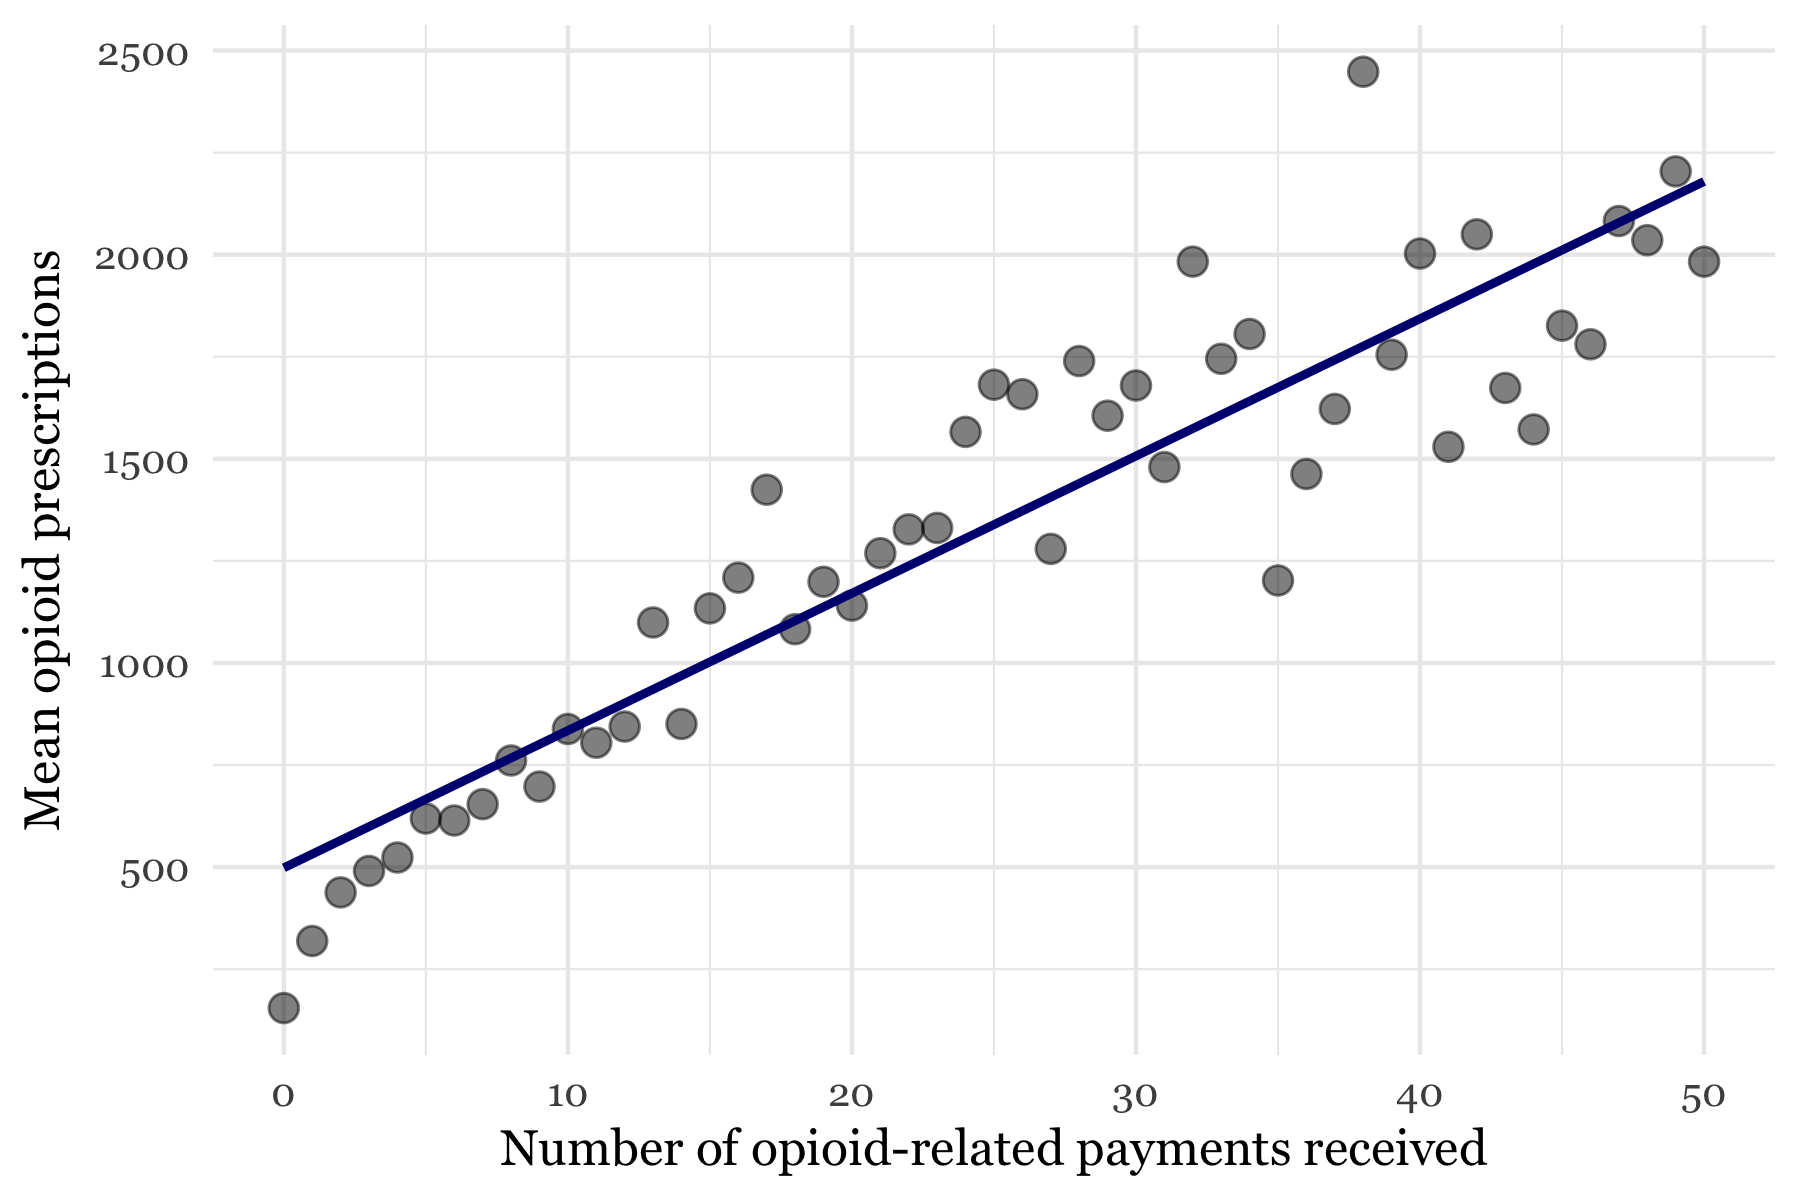
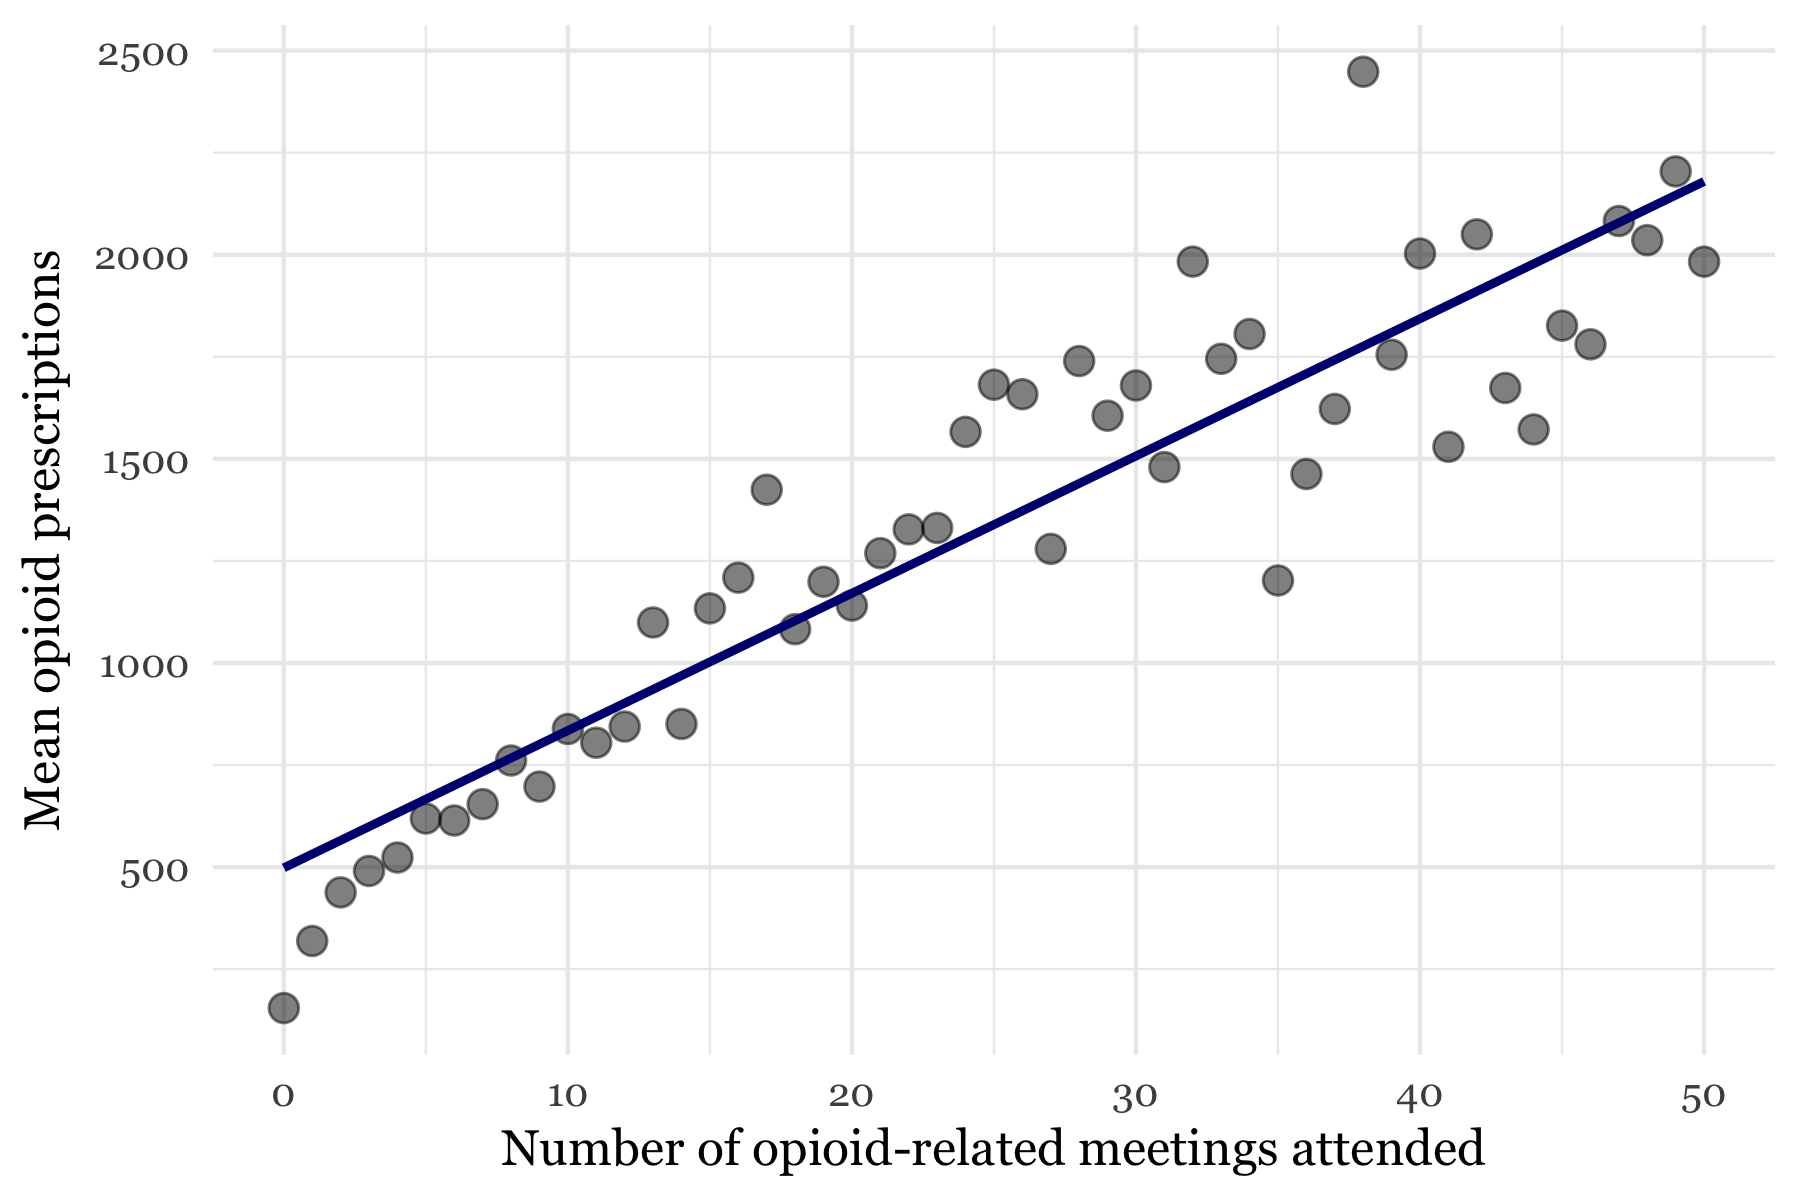
update drafts again

Changed region(s): [[0.4044, 0.925, 0.84, 0.9867], [0.28, 0.9558, 0.3733, 0.9867]]

diff --git a/README.md b/README.md
@@ -1,8 +1,8 @@
-# Part 1: Primary Care Doctors Prescribe the Most Opioids
+# Primary Care Doctors Prescribe the Most Opioids
 
 In the early 2000s, when opioid manufacturers were seeking ways to spread new drugs to more patients, a [new plan](http://ajph.aphapublications.org/doi/abs/10.2105/AJPH.2007.131714) was formed: target the primary care docs.
 
-These doctors were not trained to treat chronic pain.  Nor were they routinely performing painful procedures.  They helped give birth, treated children sick with the flu, performed annual physical exams, and cared for the elderly.
+These doctors were not trained to treat chronic pain.  Nor were they routinely performing painful procedures.  They delivered babies, treated children sick with the flu, performed annual physical exams, and cared for the elderly.
 
 In other words, they saw the most patients.  And that's precisely what made them attractive to opioid manufacturers.
 
@@ -10,29 +10,26 @@ Over 15 years later, the marketing plan seems to have paid off.  In 2015, only p
 
 ![Image](plots/specialty_top10pre_total.png)
 
-This could be due to the sheer number of primary care doctors, or the fact that primary care doctors have more patients than other specialties. But as it turns out, they prescribe more than others even after controlling for these potential confounds.
+This could be due to the sheer number of primary care doctors, or the fact that primary care doctors have more patients than other specialties. But they prescribe more than others even after controlling for these confounds.
 
-Consider Emmanuel Saez, a dentist in Ohio. In 2015, he made XX opioid prescriptions to 32 patients, amounting to a prescription-to-patient ratio of 2--average among dentists.
+Consider Michael Lochtefeld, a dentist in South Carolina. In 2015, he made 49 opioid prescriptions to 42 patients, amounting to a prescription-to-patient ratio of 1.2--average among dentists.
 
-Now consider Jonathan Gruber, a family physician in Texas. He made 100 opioid prescriptions to 50 patients in 2015, amounting to a prescription-to-patient ratio of 3--average among family physicians.
+Now consider Deepthi Singham, a family physician in Ohio. He made 304 opioid prescriptions to 84 patients in 2015, amounting to a prescription-to-patient ratio of 4.4--average among family physicians.
 
-Drs. Gruber and Saez form two ends of a spectrum. Dentists, who routinely prescribe opioids like X to their patients following surgery, are on one end. Family physicians, who XX, are on the other.
+Drs. Lochtefeld and Singham form two ends of a spectrum. The low-prescription end includes specialties like dentistry, orthopedic surgery, and emergency medicine, all of which are characterized by narrow ranges of prescribing behavior.
 
+The high-prescription end of the spectrum includes specialties focused on the treatment of pain, like anesthesiology and physical medicine and rehabilitation. These specialties are characterized by wide ranges of prescribing behavior, as indicated by the lack of sharp peaks in their distributions.
 ![Image](plots/prescriptions_dens_by_specialty.png)
 
-The low-prescription end of the spectrum includes specialties like orthopedic surgery, emergency medicine, and dentistry, all of which are characterized by narrow ranges of prescribing behavior. For example, over 95% of general surgeons prescribed between 0 and 3 opioids per person in 2015.
-
-The high-prescription end of the spectrum, unsurprisingly, includes specialties focused on the treatment of pain, like anesthesiology and physical medicine and rehabilitation. But it also includes family and internal medicine. These specialties are characterized by wide ranges of prescribing behavior, as indicated by the lack of sharp peaks in their distributions.
-
-The wide range of prescribing behavior among primary care physicians is also apparent geographically. In places like Hancock County, Kentucky, and Randolph County, Georgia, rates were less than 2 prescriptions per person prescribed opioids.  But in places like Summit County, Colorado, and Sitka County, Alaska, rates were over 12 per person&mdash;more than one prescription a month per patient.
+Family and internal medicine, the two most common primary care specialties, look  similar to specialties focused on the treatment of pain. Their wide range of prescribing behavior is also apparent geographically. In places like Hancock County, Kentucky, and Randolph County, Georgia, primary care prescription rates were less than 2 prescriptions per person prescribed opioids.  But in places like Summit County, Colorado, and Sitka County, Alaska, rates were over 12 per person&mdash;more than one prescription a month per patient.
 
 ![Image](plots/map_prescriptions_primarycare.png)
 
-There are several possible explanations for the wide range of prescription behavior among primary care physicians. Because they see the same patients on a recurring basis, they're more likely to prescribe the same patient the same drug multiple times in a year. But that does not explain the geographical variation, which could be explained by regional differences in pain prevalence or tolerance levels, or by differences in how medicine is practiced.
+There are several potential explanations for the wide range of prescription behavior among primary care physicians. They see the same patients on a recurring basis, which makes them more likely to prescribe more drugs to fewer patients. But that does not explain the geographical variation, which could be due to regional differences in pain prevalence or physician norms.
 
 Regardless of the explanation, one point lingers: it is surprising, and perhaps alarming, that family medicine doctors prescribe more opioids per patient than pain management doctors. That is evidence, perhaps, of a marketing plan gone wrong.
 
-# Part 2: Should Big Pharma Market Opioids?
+# Should Big Pharma Market Opioids?
 
 In August 1999, three Abbott Laboratories executives known as the Empress of Analgesia, Wizard of Oxycontin, and Queen of pain sent a report to the company's sales team.
 
@@ -46,11 +43,11 @@ The relationship between pharmaceutical companies and doctors has long been unde
 
 Most relationships between opioid manufacturers and physicians begin at meetings in clinics and hospitals, where doctors learn about new drugs or indications in exchange for a meal. Data on each of these transactions is recorded and made available to the public, along with data on physician prescribing habits.
 
-The data show that doctors who attended more opioid-related meetings prescribed more opioids. One additional meeting was associated with XX additional 30-day prescriptions on average.
+Combining these data sources shows that doctors who attended more opioid-related meetings prescribed more opioids. One additional meeting was associated with 33 additional 30-day prescriptions made in 2015.
 
 ![Image](plots/meetings_30dayfill.png)
 
-Some specialties, like pain management or anesthesiology, had higher opioid prescription rates than others. But the trend of prescribing more given more meetings remained true within specialties as well.
+Some specialties, like pain management or anesthesiology, had higher opioid prescription rates than others. But the positive relationship between meetings and prescriptions remaines true within specialties as well.
 
 ![Image](plots/prescriptions_meetings_by_specialty.png)
 
@@ -60,27 +57,19 @@ To address this question, consider a group of doctors who attended zero meetings
 
 If prescriptions are causing payments, then doctors who attended more meetings in 2015 would have already had higher prescription rates in 2014. If payments are causing prescriptions, then gaps between the groups would increase after 2014.
 
-Both trends are true in the data. Compared with doctors who attended 1-9 meetings, doctors who attended 10 or more meetings were already prescribing XX% more opioids in 2014--evidence of targeting. But by 2015, the gap in prescriptions between these groups also increased significantly, indicating that the meetings had their intended effect.
+As it turns out, both trends are true in the data. Compared with doctors who attended 1-9 meetings, doctors who attended 10 or more meetings were already prescribing 91% more opioids in 2014--evidence of targeting. But by 2015, the gap in prescriptions between these groups also increased significantly, indicating that the meetings had their intended effect.
 
 ![Image](plots/pot.png)
 
-Should we end the practice of advertising? It is not clear. On the one hand, if advertising is causing overprescription, and overprescription is causing deaths, then perhaps the answer is yes.
-
-But on the other hand, it could be the case that pharmaceutical companies are helping doctors better treat pain. When in doubt, one can simply read reviews of opioids on websites like WebMD.
-
-One user writes, "". Another writes, "".
-
-Overall, it is likely that opioids are being overprescribed--especially in certain communities where doctors are rumored to be pill mills and XX. But reducing prescription rates without hurting the patients who need pain treatment most would require targeting.
+But even if it were conclusive, the policy conclusion would not be trivial. On the one hand, if advertising is causing overprescription, and overprescription is causing deaths, then it would seem reasonable to more strictly regulate the advertising of opioids. While such a policy could improve deaths, particlarly in areas of the country where overdose deaths are commonplace, it could replace those deaths with an epidemic of debilitating chronic pain.
 
 ![Image](plots/map_overdose_deaths.png)
 
-Until that time, it remains unclear whether advertising is improving outcomes. And in the meantime, sales teams should act knowing lives are at stake. A public health emergency has no room for empresses, wizards, queens, or crusaders. Only healers.
+Then ideal policy, then, requires a delicate balance between reducing overprescription and treating pain. Until such a policy is implemented, there is no room for empresses, wizards, queens, or crusaders. Only healers.
 
-### Next steps
+#### Next steps
 
-Part 1:
-- clean up definition of primary care: for now I'm using family med + internal med + general practice as a proxy, so i'm omitting pediatricians and obgyn; it's also the case, i think, that some internal med docs are not considered primary care doctors (e.g., endocrinologists)
-- check if primary care docs are prescribing lots of opioids in places where there are no pain specialists. are death rates particularly high in these areas? this would be an interesting take -- basically the lack of specialty care in rural areas has perpetuated the opioid epidemic. could get at this by comparing overdose rates in rural areas with specialty docs vs rural areas without
-
-Part 2:
-- maybe bring in geographic data on incidence of chronic pain to control for patient population?
+- Be clearer about data sources
+- Document any data restrictions made in each plot
+- Interview top prescribers
+- Interview patients
